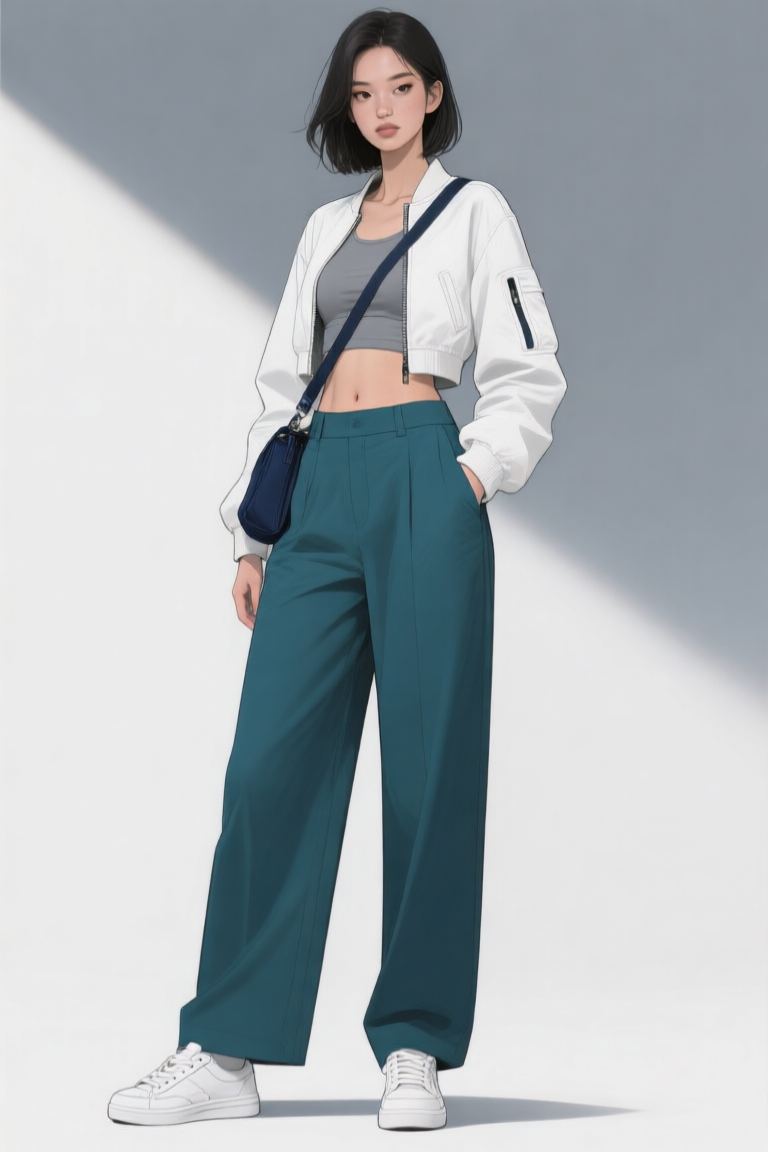
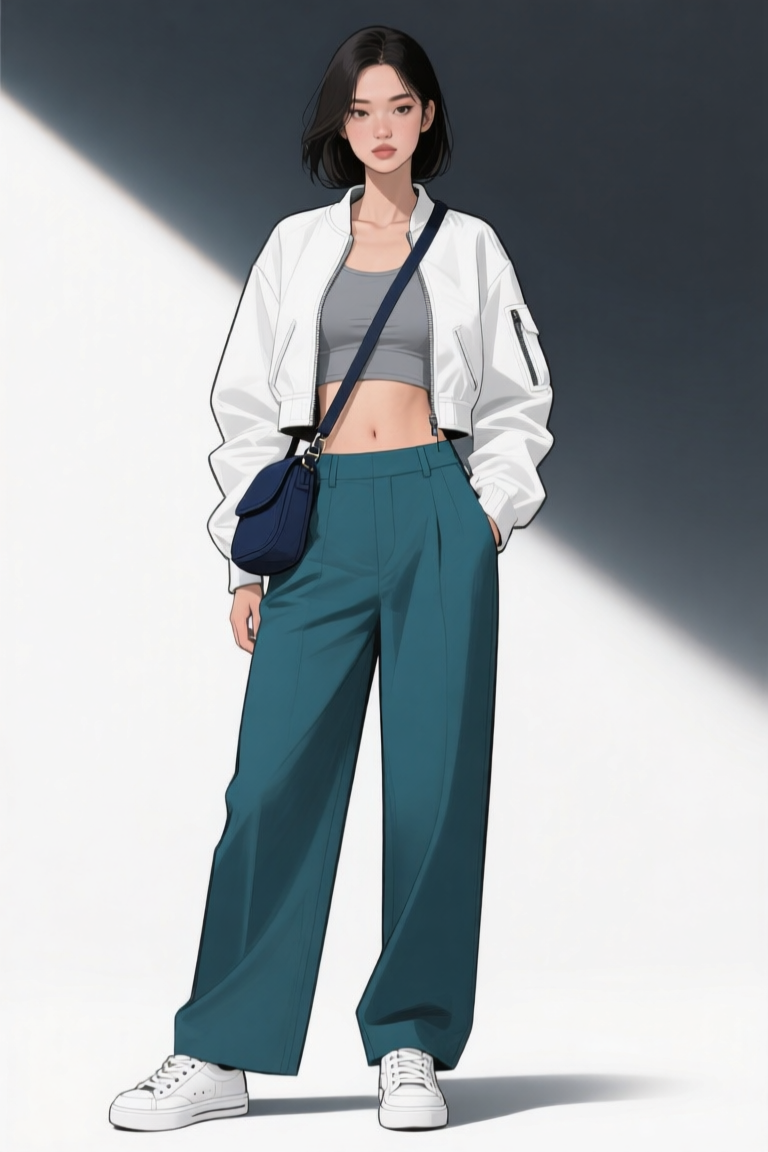
feat(p7-5-2): approve 30-step Qwen references

diff --git a/docs/assets/part-07/chapter-05/p7_5_2_qwen_edit_reference_pilot.py b/docs/assets/part-07/chapter-05/p7_5_2_qwen_edit_reference_pilot.py
@@ -38,7 +38,7 @@ TRANSFORMER_ID = "nunchaku-tech/nunchaku-qwen-image-edit-2509/svdq-fp4_r128-qwen
 BASE_MODEL_ID = "Qwen/Qwen-Image"
 BASE_TRANSFORMER_ID = "/home/cbsim/.cache/huggingface/hub/models--nunchaku-tech--nunchaku-qwen-image/snapshots/4d9f4f667ea571ab172e0ee29ac2c27b82a41a6b/svdq-fp4_r128-qwen-image.safetensors"
 OUTPUT_DIR = ASSETS / "p7-5-2-qwen-edit-candidates"
-DEFAULT_STEPS = 20
+DEFAULT_STEPS = 30
 QWEN_FACE_REFERENCE = "p7-5-2-face-front-qwen-role-separated-reference.png"
 OPENPOSE_GUIDES = {
     "face_front_quarter_left": "p7-5-2-openpose-face-quarter-left-declarative-guide.png",
@@ -299,6 +299,26 @@ TARGETS = {
             "Image 1: preserve only the young East Asian woman's compact oval face, high straight nose, amber irises, asymmetric fringe, and high-volume petrol-teal bob. "
             "Image 2: use only as the exact Qwen-generated complete outfit reference; preserve its ultra-short white cropped utility jacket with long cuffed sleeves, gray micro-crop top, bare midriff, deep-teal high-waisted wide-leg trousers, white low-top sneakers, navy crossbody bag, and one exterior strap. "
             "Image 3 is a body-only OpenPose structural map; do not render it. Create one upright 45-degree left front-quarter full body from hair crown to shoe soles. The nearer image-right hand rests on the waist while its elbow is lifted wide at shoulder height, creating a large triangular arm silhouette; the image-left arm is lowered. Shift weight onto the nearer leg with the far knee and foot relaxed behind. Plain warm off-white background, one person, no text, panel, collage, or scene."
+        ),
+    },
+    "fullbody_quarter_left_approved_front_openpose": {
+        "inputs": (
+            "p7-5-2-fullbody-front-qwen-approved-outfit-reference.png",
+            "p7-5-2-openpose-five-yaw-pitch0-fov30-frame-up-v1/p7-5-2-openpose-relation-yaw-45_pitch+00.png",
+        ),
+        "append_style_prompt": False,
+        "append_illustration_prompt": True,
+        "input_roles": ["approved_fullbody_identity_outfit", "standard_openpose_fullbody_structure"],
+        "default_steps": 10,
+        "size": (960, 1440),
+        "prompt": (
+            "Image 1 is the exact approved Qwen character, full outfit, bag, and studio reference. Preserve the same young East Asian woman: "
+            "petrol-teal jaw-length bob, orange-amber irises, white ultra-short cropped utility jacket with long cuffed sleeves, gray inner crop top, "
+            "bare-midriff band, deep-teal high-waisted wide-leg trousers, white low-top sneakers, and one navy crossbody bag with its exterior strap. "
+            "Image 2 is a body-only OpenPose structural map; use its pose and 45-degree left-facing orientation but never render its lines, dots, colours, or background. "
+            "Create one upright full-body left front-quarter view from hair crown to shoe soles: the nose, chest, hips, knees, and shoes turn toward image left; "
+            "both eyes remain visible; the nearer image-right cheek, shoulder, arm, hip, and shoe are larger, while the image-left side is compressed behind the torso. "
+            "Keep relaxed arms and a compact natural neck. Plain warm off-white background, one person, no text, panel, collage, or scene."
         ),
     },
     "fullbody_front_quarter_left_qwen": {
@@ -616,7 +636,7 @@ def main() -> None:
         "target": args.target,
         "run_label": args.run_label,
         "inputs": [asset_record(path) for path in inputs],
-        "input_roles": (
+        "input_roles": target.get("input_roles") or (
             []
             if args.target in {"outfit_integrated_front_hip", "outfit_integrated_front_full_length"}
             else

diff --git a/management/release-notes/sections/part-07/P7-5.2.md b/management/release-notes/sections/part-07/P7-5.2.md
@@ -5,8 +5,9 @@
 
 ### v2026.08.19
 
+- Qwen 정면 전신 기준 재승인: 새 30 step 착장·가방 앵커, 승인 정면 얼굴, 프레임을 올린 `yaw 0°` body-only OpenPose를 세 입력으로 쓴 `seed=62294`, `960×1440`, `30 step` 후보를 안정 PNG·run JSON·review JSON으로 교체했다. 더 뚜렷한 외곽선·4단 음영·하이라이트 적용은 승인하되, 이 승인은 정면 전신에만 한정한다.
 - Qwen 정면 전신 기준 재승인·교체: 승인 Qwen 얼굴·착장 앵커·프레임을 위로 올린 `yaw 0°` body-only OpenPose를 세 입력으로 사용한 `seed=62294`, `960×1440`, `30 step` 후보를 현재 안정 PNG·run JSON·review JSON으로 교체했다. 승인 범위는 정면 전신, 청록 단발·호박색 홍채, 흰 초단 크롭 재킷·회색 이너 탑·딥틸 와이드 팬츠·흰 스니커즈·남색 크로스백 재현에 한정하며, 원고 표의 이미지와 검수 링크도 갱신했다.
-- Qwen 착장·가방 기준 재승인: 이미지 입력 없이 `seed=62294`, `768×1152`, `10 step`으로 생성한 의상 전용 후보를 승인해 안정 PNG·run JSON·review JSON으로 교체했다. 흰 초단 크롭 재킷·회색 이너 탑·딥틸 와이드 팬츠·흰 스니커즈·남색 크로스백은 복장 입력으로 사용하며, 앵커의 일반 얼굴·머리·자세는 identity·비례 기준이 아니다.
+- Qwen 착장·가방 기준 재승인: 이미지 입력 없이 공통 일러스트 계약과 `seed=62294`, `768×1152`, `30 step`으로 생성한 의상 전용 후보를 승인해 안정 PNG·run JSON·review JSON으로 교체했다. 흰 초단 크롭 재킷·회색 이너 탑·딥틸 와이드 팬츠·흰 스니커즈·남색 크로스백은 복장 입력으로 사용하며, 앵커의 일반 얼굴·머리·자세는 identity·비례 기준이 아니다.
 - 피치 0 5방향 body-only OpenPose 승인: `yaw −90°/−45°/0°/+45°/+90°`의 결정론적 7등신·한 손 허리 비대칭 서기 맵을 사람 승인해 각 PNG·좌표 JSON·검수 기록으로 등록했다. 수평 FOV `30.5°`와 카메라 거리 `10.8`을 코드 상수와 manifest에 함께 기록해 원근·전신 프레이밍의 재현 기준을 분리했다. 원고에는 5방향 contact sheet, manifest, 개별 review JSON과 생성 코드를 연결했다. 이 승인은 body-only 구조에 한정하며 캐릭터 identity·머리·착장·가방을 승인하지 않는다.
 - FLUX로 생성해 승인했던 방향 얼굴·전신·리파인 이미지와 review JSON을 모두 제거했다. 해당 18장 기반 LoRA 입력 계획과 원고의 이미지·review 링크를 폐기하고, 새 방향 자산은 Qwen 기준에서 별도 검수 후 다시 등록하도록 정리했다.
 - 인체 비율 도메인 적용: `SEVEN_HEAD_DEFAULTS`라는 단일 명칭을 `HUMAN_PROPORTION_PROFILES` 도메인으로 교체하고, 기본 `seven_head_standing` 프로필이 얼굴 높이·폭, 몸통·다리·팔 길이, 전체 신장을 BODY_18·70점 face 좌표에 실제 반영하게 했다.
